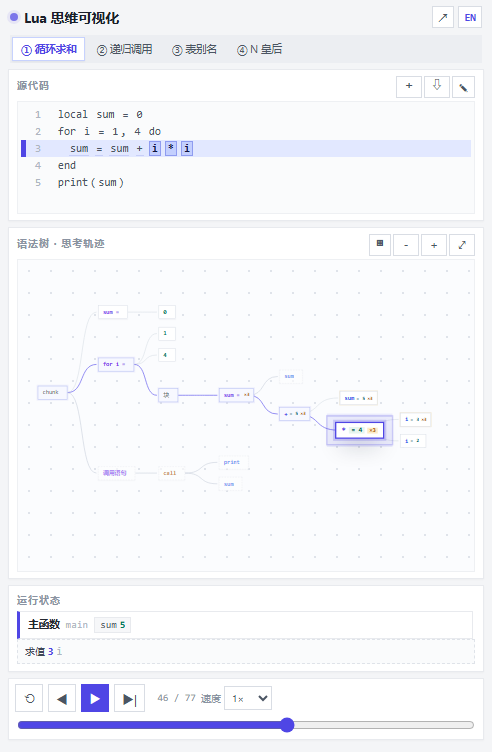
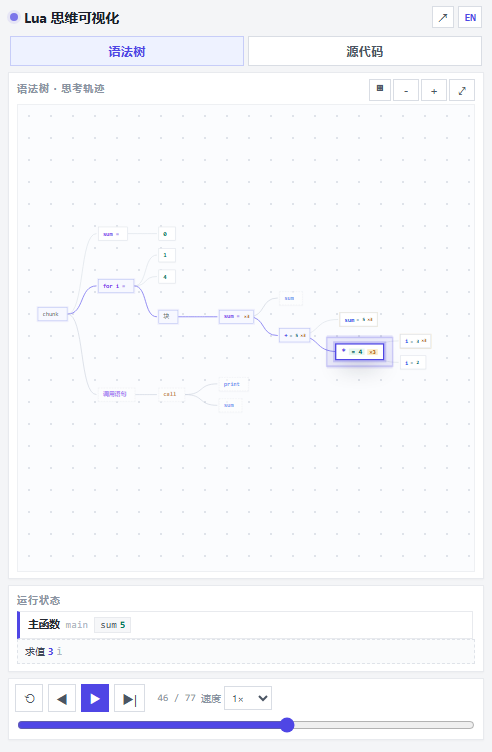
feat(mobile): split phone UI into Trace / Code pages
- top segmented switch (remembered in localStorage, ?page=code deep-link)
- Trace page: tree fills the screen, state capsule + step line, controls visible, chips hidden
- Code page: ~34 code lines, chips + new/import/edit tools, controls hidden; Run auto-switches back
- desktop/tablet unaffected (rules only inside max-width:520px)
- README zh/en updated with two-page description + new phone-code screenshot

diff --git a/app.js b/app.js
@@ -962,6 +962,7 @@ const KIND_CAT = {
 /* ---------------- 6.5 国际化（简体中文 / English） ---------------- */
 const LANG_LS_KEY = 'lua-mindscape:lang';
 const LAYOUT_LS_KEY = 'lua-mindscape:layout';
+const PAGE_LS_KEY = 'lua-mindscape:page';
 
 const I18N = {
   zh: {
@@ -972,6 +973,9 @@ const I18N = {
     'chip.fact': '② 递归调用',
     'chip.alias': '③ 表别名',
     'chip.queens': '④ N 皇后',
+    'page.tree': '语法树',
+    'page.code': '源代码',
+    'aria.pages': '手机页面切换',
     'pane.code': '源代码',
     'pane.output': '输出',
     'pane.tree': '语法树 · 思考轨迹',
@@ -1039,6 +1043,9 @@ const I18N = {
     'chip.fact': '② Recursion',
     'chip.alias': '③ Table alias',
     'chip.queens': '④ N-Queens',
+    'page.tree': 'Trace',
+    'page.code': 'Code',
+    'aria.pages': 'mobile page switcher',
     'pane.code': 'Source code',
     'pane.output': 'Output',
     'pane.tree': 'AST · thought trace',
@@ -1272,7 +1279,8 @@ const app = {
   editing: false,
   editBackup: null,
   lang: 'zh',
-  layoutMode: 'grid'
+  layoutMode: 'grid',
+  page: 'tree'
 };
 
 /* ---------------- 8. 回放状态机 ---------------- */
@@ -1659,6 +1667,43 @@ function zoomBy(f) {
   app.userPanned = false;
   $('#tree').classList.remove('nofollow');
   followTo(app.curId != null ? app.curId : (app.ast && app.ast.id), true);
+}
+
+function readSavedPage() {
+  try { return localStorage.getItem(PAGE_LS_KEY) || ''; } catch (err) { return ''; }
+}
+function writeSavedPage(page) {
+  try { localStorage.setItem(PAGE_LS_KEY, page); } catch (err) { /* noop */ }
+}
+
+/* 手机端两页面切换：桌面端不生效（相关 CSS 只在 ≤520px 内生效） */
+function updateMobileTabs() {
+  document.querySelectorAll('#mobileTabs .mtab').forEach(b => {
+    b.classList.toggle('active', b.dataset.page === app.page);
+  });
+}
+function applyMobilePageClasses() {
+  const root = document.querySelector('.app');
+  if (!root) return;
+  root.classList.toggle('page-tree', app.page !== 'code');
+  root.classList.toggle('page-code', app.page === 'code');
+  updateMobileTabs();
+}
+function setMobilePage(page, save) {
+  app.page = page === 'code' ? 'code' : 'tree';
+  applyMobilePageClasses();
+  if (save !== false) writeSavedPage(app.page);
+  const refresh = () => {
+    if (app.page === 'tree') {
+      if (!app.userPanned) fitTree();
+      if (app.state) render();
+    } else if (app.editing) {
+      positionEditor();
+      refreshEditorBackdrop();
+    }
+  };
+  if (typeof requestAnimationFrame === 'function') requestAnimationFrame(refresh);
+  else refresh();
 }
 
 function readSavedLayout() {
@@ -2105,6 +2150,8 @@ function runEditor() {
   writeSavedSrc(src);
   setActiveChip(null);
   leaveEdit();
+  /* 手机上运行后自动切回「语法树」页面看思考过程 */
+  if (isCompactUI()) setMobilePage('tree', false);
   if (!app.stillMode) play();
 }
 
@@ -2213,6 +2260,11 @@ function bindControls() {
       setLayoutMode(app.layoutMode === 'neuron' ? 'grid' : 'neuron');
     });
   }
+
+  /* 手机端「语法树 / 源代码」页面切换 */
+  document.querySelectorAll('#mobileTabs .mtab').forEach(btn => {
+    btn.addEventListener('click', () => setMobilePage(btn.dataset.page, true));
+  });
 
   /* 新建 / 导入 */
   $('#btnNew').addEventListener('click', newProgram);
@@ -2414,6 +2466,8 @@ function boot() {
   else app.lang = readSavedLang() === 'en' ? 'en' : 'zh';
   const urlLayout = params.get('layout');
   app.layoutMode = (urlLayout || readSavedLayout()) === 'neuron' ? 'neuron' : 'grid';
+  const urlPage = params.get('page');
+  app.page = (urlPage === 'code' || urlPage === 'tree') ? urlPage : (readSavedPage() === 'code' ? 'code' : 'tree');
   const key = PROGRAMS[params.get('program')] ? params.get('program') : 'loop';
   const still = params.get('still') === '1';
   const step = Math.floor(Number(params.get('step') || '0')) || 0;
@@ -2456,6 +2510,7 @@ function boot() {
     }
   }
   applyI18n();
+  setMobilePage(app.page, false);
   if (params.get('scale')) {
     const s = Number(params.get('scale'));
     if (isFinite(s) && s > 0) {
@@ -2473,7 +2528,7 @@ function boot() {
   }
   window.__luaBrain = {
     app, compileProgram, PROGRAMS, tokenize, parse, run, eventLabel, applyEvent, seek, play, pause, fitTree,
-    enterEdit, leaveEdit, cancelEdit, runEditor, runSource, setLang, t, setLayoutMode,
+    enterEdit, leaveEdit, cancelEdit, runEditor, runSource, setLang, t, setLayoutMode, setMobilePage,
     newProgram, importText,
     isEditing: () => !!app.editing,
     getEditorValue: () => { const ta = $('#editor'); return ta ? ta.value : ''; },

diff --git a/style.css b/style.css
@@ -503,3 +503,28 @@ a.tbtn{display:inline-flex;align-items:center;justify-content:center;text-decora
   #speed{height:24px;font-size:10px;padding:0 3px}
   .footnote{display:none}
 }
+
+
+/* ---------------- 手机端两页面：语法树 / 源代码 ---------------- */
+.mobile-tabs{display:none}
+@media (max-width:520px){
+  .mobile-tabs{display:flex;order:3;flex:1 0 100%;gap:4px;margin-top:2px}
+  .mobile-tabs .mtab{flex:1;height:30px;border:1px solid var(--line-strong);background:var(--surface);
+    color:var(--text-2);font-family:var(--sans);font-size:12px;font-weight:600;letter-spacing:.4px}
+  .mobile-tabs .mtab.active{background:var(--accent-soft);border-color:#c7cdf8;color:var(--accent)}
+  .stage{display:flex;flex-direction:column;gap:6px;min-height:0}
+  .programs{order:4;flex:1 0 100%}
+  .app.page-tree .code-pane{display:none}
+  .app.page-tree .programs{display:none}
+  .app.page-code .tree-pane,
+  .app.page-code .state-pane{display:none}
+  .app.page-code .controls{display:none}
+  .app.page-code .code-pane{flex:1 1 auto;min-height:0}
+  .app.page-tree .tree-pane{flex:1 1 auto;min-height:0}
+  .app.page-tree .state-pane{flex:0 0 auto}
+  .app.page-code .code-wrap{flex:1 1 auto;min-height:0}
+  .app.page-tree .tree-viewport{min-height:0}
+  .app.page-code #codeHint{display:none}
+  .app.page-code .output{max-height:34px}
+  .app.page-code .footnote{display:none}
+}

diff --git a/index.html b/index.html
@@ -34,6 +34,10 @@
       <button id="btnLang" class="tbtn lang" data-i18n-title="btn.lang" title="切换语言 / Switch language">EN</button>
       <button id="btnInstall" class="tbtn install" data-i18n-title="btn.install.title" title="安装到桌面 / 主屏幕">⤓</button>
     </div>
+    <div class="mobile-tabs" id="mobileTabs" role="tablist" data-i18n-title="aria.pages" title="页面切换">
+      <button class="mtab active" data-page="tree" role="tab" data-i18n="page.tree">语法树</button>
+      <button class="mtab" data-page="code" role="tab" data-i18n="page.code">源代码</button>
+    </div>
   </header>
 
   <main class="stage">

diff --git a/README.md b/README.md
@@ -183,20 +183,25 @@ lua-brain-proto/
 - 相机稳定性：1666px 宽度下整树自动适配为 0.94 倍并完整可见；在 77 个连续事件里相机位置变化 **0 次**（上一版 31 步内 6 次平移）。树尺寸从 1201×675 压缩到 **802×394**（loop 示例，约 -33%）；
 - 两种树布局均通过：规整 `▦`、神经元 `◉` 均 0 异常；神经元模式经节点斥力松弛后相邻节点不再重叠，英文按钮为 `◉ Neuron`，手机 390×844 正常缩放，选择写入 localStorage 后刷新保持，`?layout=neuron` 可直接进入；
 - 强高亮：当前节点放大 + 加粗描边 + 外圈光晕 + 数值胶囊，规整 / 神经元、桌面 / 手机均生效；
-- 手机端（≤520px）紧凑布局：顶部只留品牌 + GitHub 图标 + 语言按钮，示例标签单行横向滚动；
-  代码工具栏收成 `＋ / ⇩ / ✎` 图标、代码区可见约 5 行；状态栏压成一行栈帧胶囊（变量内联）+
-  单行步骤说明；树面板按屏幕自适应缩放整树，支持双指捏合缩放与拖动平移；页脚隐藏；
-  390×844 / 430×932 实测无裁切、0 异常；
+- 手机端（≤520px）拆成**两个页面**，顶部「语法树 / 源代码」切换（选择会记住，`?page=code` 可直达）：
+  - **语法树页**：树占满剩余高度，状态栏一行栈帧胶囊 + 单行步骤说明，播放控制常驻，页脚与示例 chips 隐藏；
+  - **源代码页**：代码区约 34 行，示例 chips、新建 / 导入 / 编辑工具都在，播放控制隐藏；
+    点「▶ 运行」后自动切回语法树页看求值过程；
+  - 两页均支持双指捏合缩放 / 拖动平移，390×844 / 430×932 实测无裁切、0 异常；
 - 中英双语：`?lang=en` 下标题 / 品牌 / 提示 / 栈帧文案全部切换，`EN / 中` 按钮可即时切换并记住选择；
 - PWA：manifest 与 Service Worker 注册成功，可安装、离线打开。
 
-| 平板 | 手机 |
+| 平板 | 手机 · 语法树 |
 | --- | --- |
-| ![平板](docs/images/tablet.png) | ![手机](docs/images/phone.png) |
+| ![平板](docs/images/tablet.png) | ![手机·语法树](docs/images/phone.png) |
 
-| 直接编辑代码并运行 | 英文界面 |
+| 手机 · 源代码 | 直接编辑代码并运行 |
 | --- | --- |
-| ![编辑](docs/images/editor.png) | ![English](docs/images/hero-en.png) |
+| ![手机·源代码](docs/images/phone-code.png) | ![编辑](docs/images/editor.png) |
+
+| 英文界面 | 神经元布局 |
+| --- | --- |
+| ![English](docs/images/hero-en.png) | ![Neuron](docs/images/neuron.png) |
 
 ### 重新生成截图
 
@@ -206,6 +211,7 @@ node tools/qa.mjs --program queens --step 320 --width 1600 --height 1000 --out d
 node tools/qa.mjs --program fact --step 60 --out docs/images/recursion.png
 node tools/qa.mjs --program alias --step 25 --out docs/images/alias.png
 node tools/qa.mjs --program loop --step 45 --width 390 --height 844 --out docs/images/phone.png
+node tools/qa.mjs --program loop --step 45 --width 390 --height 844 --extra "page=code" --out docs/images/phone-code.png
 ```
 
 （需要本机安装 Microsoft Edge；`tools/qa.mjs` 是零依赖的，只用 Node 内置 WebSocket + fetch。）

diff --git a/README.en.md b/README.en.md
@@ -191,24 +191,31 @@ Verified in a real browser with `tools/qa.mjs` (headless Edge + Chrome DevTools 
   the choice persists in localStorage and `?layout=neuron` enters it directly;
 - Stronger highlight: active node scaled up + thicker outline + outer halo + value chips,
   in both layouts and on mobile;
-- Phone (≤520px) compact layout: header keeps only brand + GitHub icon + language toggle, sample chips
-  scroll horizontally; the code toolbar collapses to `+ / ⤓ / ✎` icons with ~5 code lines visible; the
-  state pane becomes a one-line frame capsule (inline vars) plus a single-line step note; the tree is
-  fit to the screen and supports two-finger pinch-zoom and drag-pan; the footer is hidden; verified at
-  390×844 and 430×932 with no clipping and 0 exceptions;
+- Phone (≤520px) is split into **two pages** with a `Trace / Code` switch at the top (remembered;
+  `?page=code` opens it directly):
+  - **Trace page**: the tree fills the remaining height, the state pane collapses to a one-line frame
+    capsule + single-line step note, playback controls stay visible, footer and sample chips hidden;
+  - **Code page**: ~34 code lines, sample chips plus New / Import / Edit tools, playback controls hidden;
+    tapping `▶ Run` switches back to the Trace page automatically;
+  - both pages support two-finger pinch-zoom and drag-pan; verified at 390×844 and 430×932 with no
+    clipping and 0 exceptions;
 - No exceptions, no console errors; scrubbing, stepping, node-jump and sample switching all pass;
 - Code editing: custom code `local x = 5 / print(x * 2)` runs (19 trace events), parse errors are inline;
   pasting the whole N-Queens program also runs;
 - Bilingual: with `?lang=en` the title / brand / hints / stack texts all switch; the `EN / 中` toggle persists;
 - PWA: manifest + Service Worker register successfully; installable and offline-capable.
 
-| Tablet | Phone |
+| Tablet | Phone · Trace |
 | --- | --- |
-| ![Tablet](docs/images/tablet.png) | ![Phone](docs/images/phone.png) |
+| ![Tablet](docs/images/tablet.png) | ![Phone trace](docs/images/phone.png) |
 
-| Editing code and running it | English UI |
+| Phone · Code | Editing and running |
 | --- | --- |
-| ![Editor](docs/images/editor.png) | ![English](docs/images/hero-en.png) |
+| ![Phone code](docs/images/phone-code.png) | ![Editor](docs/images/editor.png) |
+
+| English UI | Neuron layout |
+| --- | --- |
+| ![English](docs/images/hero-en.png) | ![Neuron](docs/images/neuron.png) |
 
 ### Regenerate screenshots
 
@@ -218,6 +225,7 @@ node tools/qa.mjs --program queens --step 320 --width 1600 --height 1000 --out d
 node tools/qa.mjs --program fact --step 60 --out docs/images/recursion.png
 node tools/qa.mjs --program alias --step 25 --out docs/images/alias.png
 node tools/qa.mjs --program loop --step 45 --width 390 --height 844 --out docs/images/phone.png
+node tools/qa.mjs --program loop --step 45 --width 390 --height 844 --extra "page=code" --out docs/images/phone-code.png
 ```
 
 (Requires Microsoft Edge; `tools/qa.mjs` is dependency-free — Node's built-in WebSocket + fetch.)
